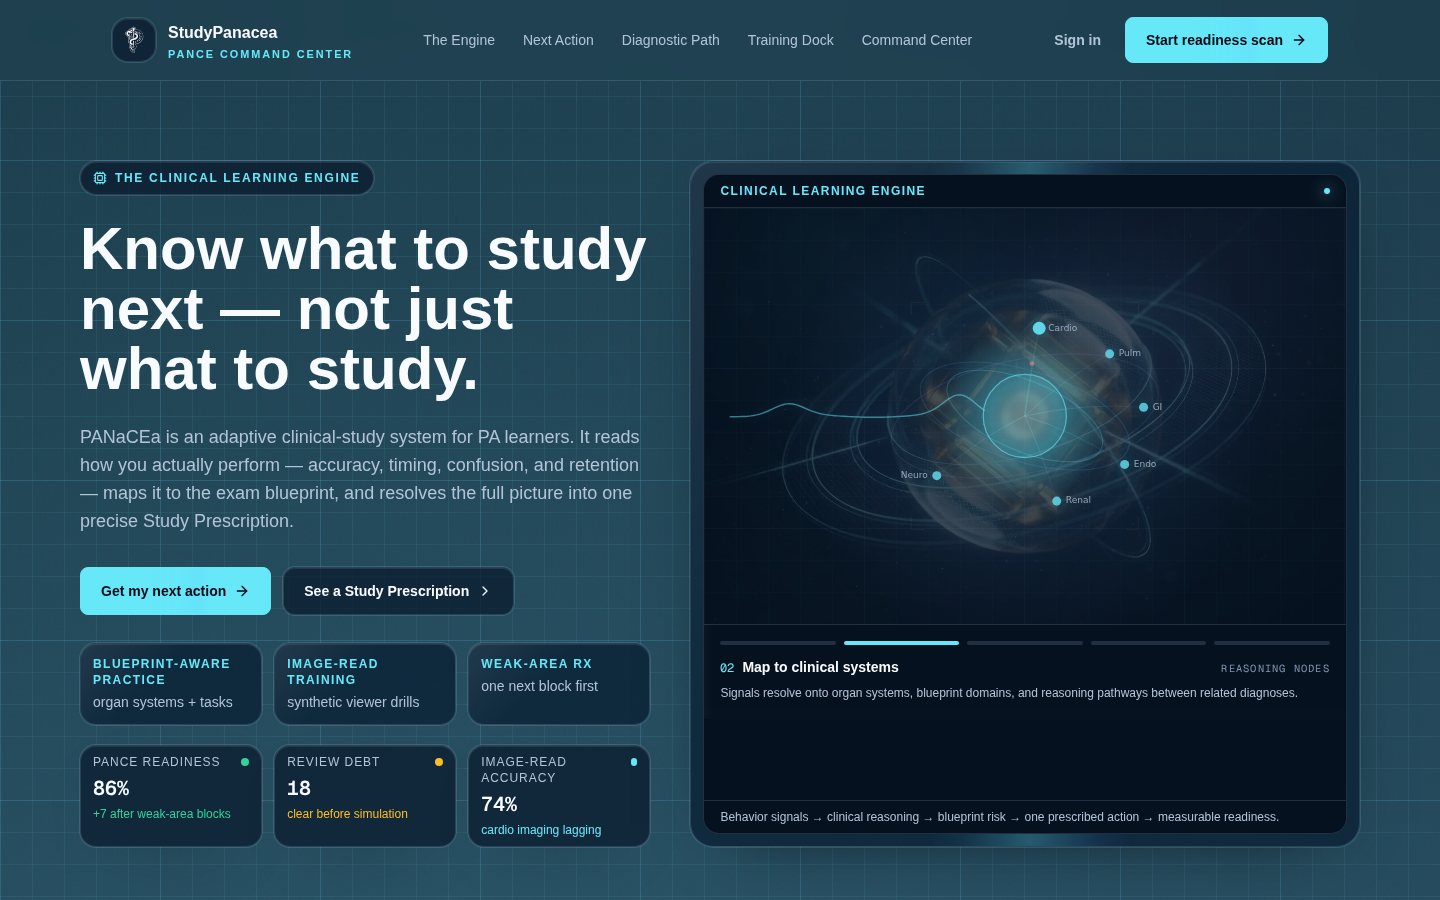
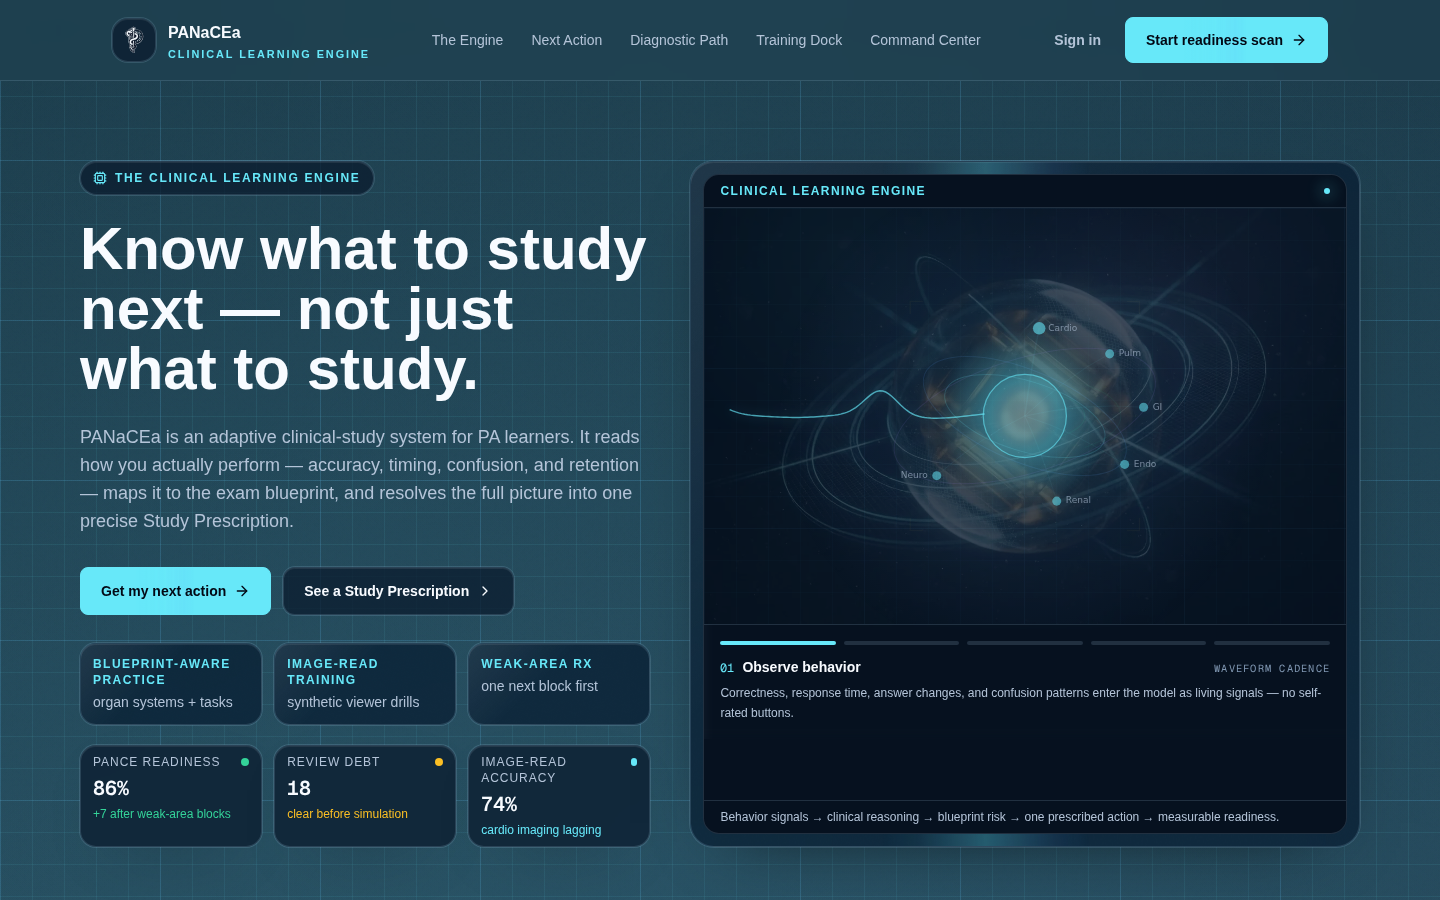
feat(landing): align brand to PANaCEa / Clinical Learning Engine
Replace residual 'StudyPanacea' / 'PANCE Command Center' labels in the header,
footer, auth dialog, training dock, dashboard preview, and diagnostic story with
the consistent PANaCEa brand and Clinical Learning Engine framing. Refresh
desktop/tablet/mobile screenshots.

https://claude.ai/code/session_01X9tWb7JMJkp1NUmU4wvDgy

diff --git a/components/landing/LandingPage.tsx b/components/landing/LandingPage.tsx
@@ -73,10 +73,10 @@ function LandingHeader({ onSignIn, onSignUp }: { onSignIn: () => void; onSignUp:
           </span>
           <span className="flex flex-col leading-none">
             <span className="font-poppins text-base font-semibold text-atlas-white">
-              StudyPanacea
+              PANaCEa
             </span>
             <span className="mt-1 text-[0.68rem] font-semibold uppercase tracking-[0.18em] text-atlas-cyan">
-              PANCE Command Center
+              Clinical Learning Engine
             </span>
           </span>
         </a>
@@ -223,7 +223,7 @@ function AuthDialog({ authMode, onClose }: { authMode: AuthMode; onClose: () => 
       <DialogContent className="theme-diagnostic-atlas w-[calc(100vw-2rem)] max-w-xl overflow-hidden border-atlas-border bg-[color-mix(in_srgb,var(--atlas-bg-elevated)_94%,transparent)] p-0 text-atlas-white shadow-atlas-glass sm:rounded-2xl">
         <DialogHeader className="border-b border-atlas-border px-6 py-5 pr-14 text-left">
           <p className="text-xs font-semibold uppercase tracking-[0.14em] text-atlas-cyan">
-            StudyPanacea access
+            PANaCEa access
           </p>
           <DialogTitle
             id="panacea-auth-title"
@@ -260,10 +260,10 @@ function LandingFooter({ onSignUp }: { onSignUp: () => void }) {
     <footer className="border-t border-atlas-border px-4 py-10 sm:px-6 lg:px-8">
       <div className="mx-auto flex max-w-7xl flex-col gap-6 text-sm text-atlas-muted md:flex-row md:items-center md:justify-between">
         <div>
-          <p className="font-poppins text-base font-semibold text-atlas-white">StudyPanacea</p>
+          <p className="font-poppins text-base font-semibold text-atlas-white">PANaCEa</p>
           <p className="mt-2 max-w-xl">
-            A premium PANCE prep command center for question practice, image training, weak-area
-            targeting, and readiness analytics.
+            The adaptive Clinical Learning Engine for PA learners — turning study behavior,
+            blueprint risk, and retention into one precise next action.
           </p>
         </div>
         <button
@@ -423,7 +423,7 @@ export function LandingPage() {
                 Start the next study block with a readiness scan, not a guess.
               </h2>
               <p className="mx-auto mt-4 max-w-2xl text-sm leading-7 text-atlas-muted sm:text-base">
-                StudyPanacea turns today’s weak system, image-read confidence, and review debt into
+                PANaCEa turns today’s weak system, image-read confidence, and review debt into
                 one focused PANCE study prescription.
               </p>
 

diff --git a/components/landing/DashboardPreview.tsx b/components/landing/DashboardPreview.tsx
@@ -579,7 +579,7 @@ export function DashboardPreview({ onOpenDashboard }: { onOpenDashboard: () => v
               <div className="flex flex-col gap-4 rounded-3xl border border-atlas-border bg-atlas-background/70 p-4 backdrop-blur-xl lg:flex-row lg:items-center lg:justify-between">
                 <div>
                   <p className="text-xs font-semibold uppercase tracking-[0.14em] text-atlas-cyan">
-                    StudyPanacea readiness command center
+                    PANaCEa readiness command center
                   </p>
                   <h3 className="mt-2 font-poppins text-2xl font-semibold text-atlas-white">
                     Diagnostic Atlas OS study surface

diff --git a/components/landing/TrainingModesDock.tsx b/components/landing/TrainingModesDock.tsx
@@ -354,7 +354,7 @@ export function TrainingModesDock() {
             <div
               role="tablist"
               className="order-1 -mx-4 flex min-w-0 max-w-[100vw] snap-x gap-3 overflow-x-auto overscroll-x-contain px-4 pb-4 md:mx-0 md:grid md:max-w-none md:grid-cols-3 md:gap-4 md:overflow-visible md:px-0 md:pb-0 lg:order-2"
-              aria-label="StudyPanacea training modes"
+              aria-label="PANaCEa training modes"
             >
               {TRAINING_MODES.map((mode) => (
                 <ModeTile

diff --git a/components/landing/DiagnosticScrollStory.tsx b/components/landing/DiagnosticScrollStory.tsx
@@ -676,7 +676,7 @@ function StorySignalPanel() {
     {
       label: 'Clinical Diagnosis',
       value: 'Weak System Cluster',
-      detail: 'StudyPanacea groups repeated errors by organ system, task type, and review timing.',
+      detail: 'PANaCEa groups repeated errors by organ system, task type, and review timing.',
     },
     {
       label: 'Output',
